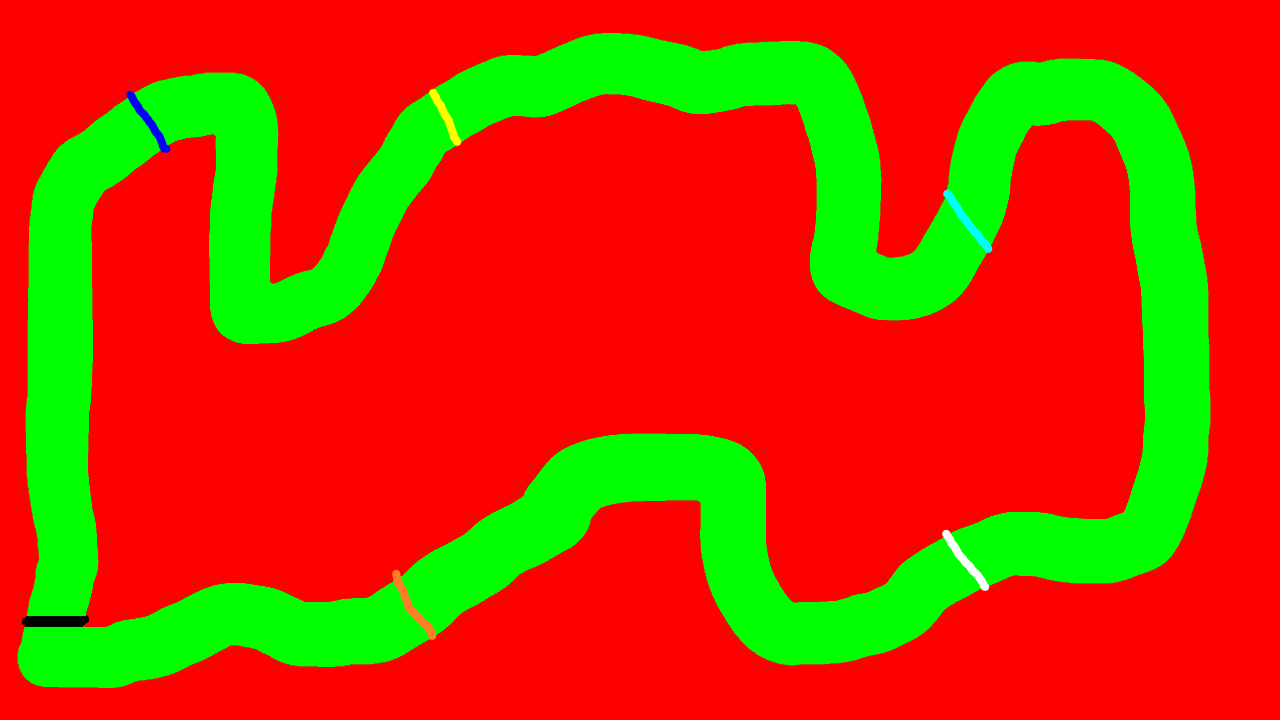
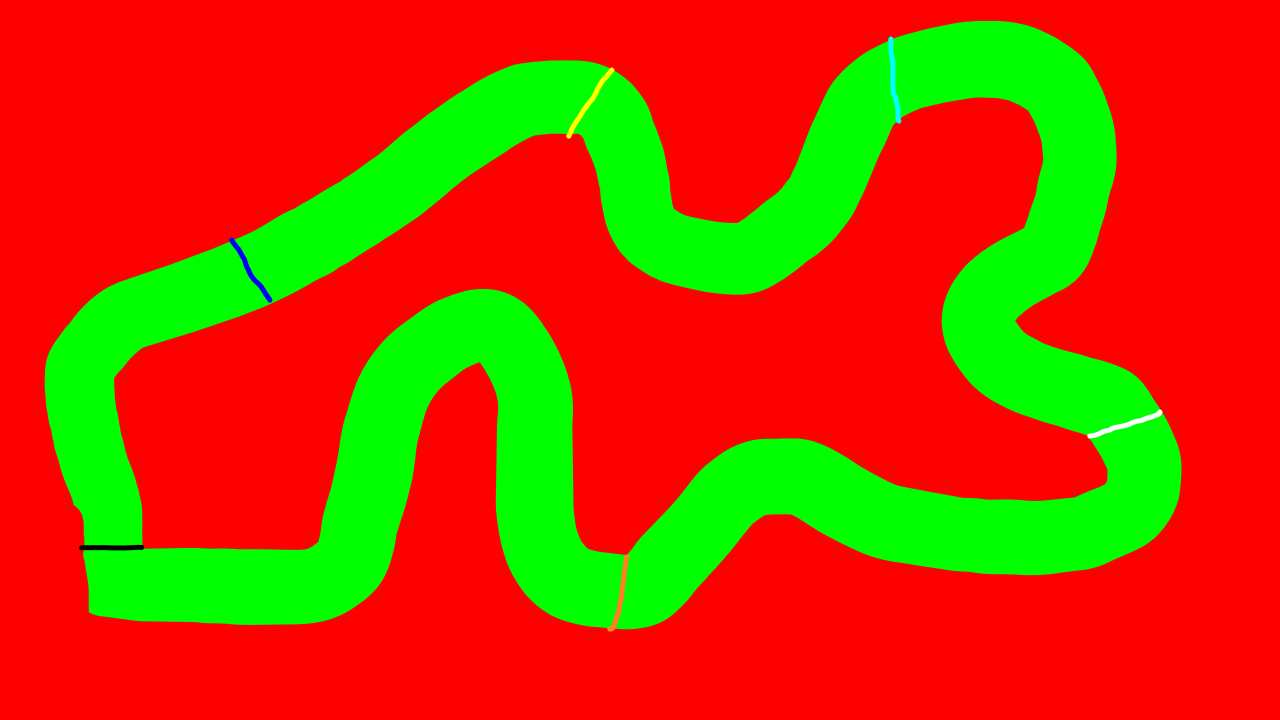
Increase GA population to 200
Update the training script's population size and refresh the logic and visual track 2 assets.

diff --git a/scripts/train_ga.py b/scripts/train_ga.py
@@ -20,7 +20,7 @@ from car_sim.ga import (
     SIGMA, MUTATION_RATE, POOL_FRAC, N_ELITE,  # POOL_FRAC and N_ELITE need the ga.py change
 )
 
-POP_SIZE = 50
+POP_SIZE = 200
 N_GENERATIONS = 50
 R = 10
 RESULTS_DIR = Path("results")
